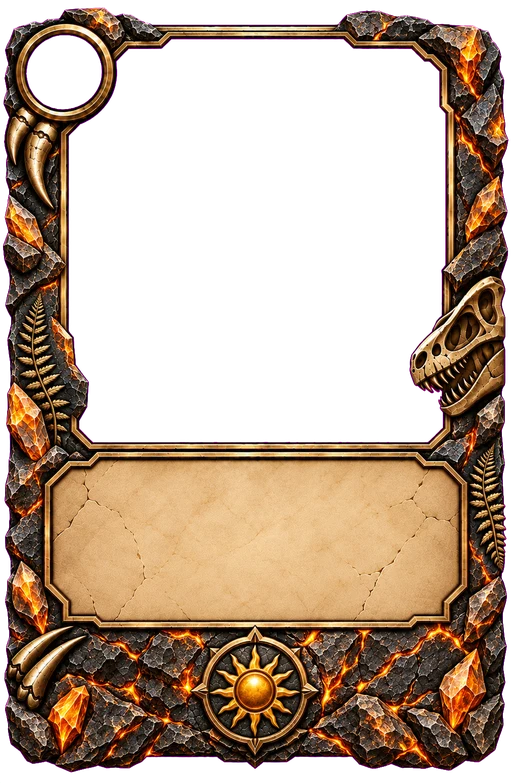
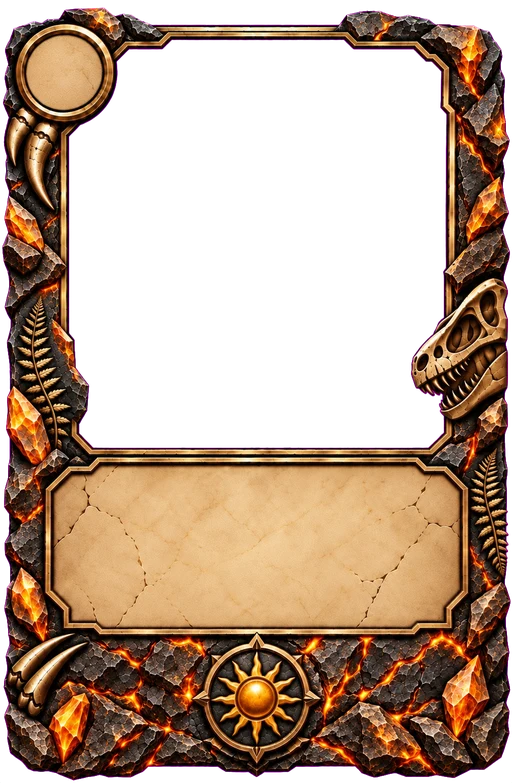
Marco de soporte: los tres definitivos, con el aro del coste en PAPEL
Los tres PNG del primer intento eran un borrado anterior: traían el aro del
coste en magenta, o sea hueco. Los buenos lo traen RELLENO de papel, que es
justo al revés que en las criaturas, así que la herramienta sólo mide aquí un
hueco —la ventana— y el aro se midió sobre el papel como la caja.

Con eso, en una carta de soporte las TRES tintas son de papel y ninguna cae
sobre hueco: el coste pasa a tinta oscura. Se miró a 83 px antes de aceptarlo,
que es donde a las criaturas les falló el papel dentro del aro, y aquí se lee
mejor que el hueco: el disco es grande, la cifra es una sola y no comparte
filo con la caja.

La ventana se pone por el hueco más ANCHO de los tres y no por la media: el
marco se pinta encima del arte, así que una ventana de más queda tapada y una
de menos deja un filo oscuro dentro del hueco. Los tres se separan hasta punto
y medio por la derecha y con la media el clima enseñaba ese filo.

Claude-Session: https://claude.ai/code/session_01Q85Z2YG2ZkA5G7j4CyGifz

diff --git a/carta.css b/carta.css
@@ -178,17 +178,19 @@
    familia como en las criaturas. La caja no es magenta y se midió sobre el
    papel, con el mismo margen que se le dejó a la de las criaturas. */
 .carta.con-marco.no-dino {
-  --ven-x0: 13%;    --ven-x1: 12.5%;  --ven-y0: 5%;     --ven-alto: 51.5%;
-  --pla-x0: 13%;    --pla-x1: 13%;    --pla-y0: 58%;    --pla-y1: 19.2%;
-  --cos-cx: 12.5%;  --cos-cy: 9.24%;
+  --ven-x0: 13.3%;  --ven-x1: 11.9%;  --ven-y0: 4.7%;   --ven-alto: 52.8%;
+  --pla-x0: 13%;    --pla-x1: 13%;    --pla-y0: 58.4%;  --pla-y1: 18.8%;
+  --cos-cx: 12.51%; --cos-cy: 9.14%;
 }
 /* El aro del coste viene dibujado, así que la chapa de Biomasa se apaga: es el
-   mismo caso que las tres chapas de las criaturas. La cifra cae sobre hueco
-   —el fondo oscuro de la carta— y se queda en claro. */
+   mismo caso que las tres chapas de las criaturas. */
 .carta.con-marco.no-dino .c-chapa { display: none; }
-/* Sobre papel: el nombre y el texto. */
+/* Y aquí TODO cae sobre papel —el aro del coste también— así que las tres
+   tintas van oscuras. Es lo contrario que en las criaturas, donde las cifras
+   caen sobre hueco: ahí el aro está vacío y aquí está relleno. */
 .carta.con-marco.no-dino .c-nombre { color: #38200c; }
 .carta.con-marco.no-dino .c-texto { color: #2e2113; }
+.carta.con-marco.no-dino .c-coste { color: #2b1706; }
 /* La caja se queda con el relleno de siempre —`3% 5% 0`— y NO con el que se
    apretó para las criaturas: aquí lleva el NOMBRE con hasta tres líneas, no un
    título de dos, y el punto y medio de relleno de abajo le comía media línea a

diff --git a/test/entera.test.js b/test/entera.test.js
@@ -90,9 +90,11 @@ test('las tres familias de soporte llevan su marco, con el aro del coste dentro'
   // Y viene dibujado: la chapa de Biomasa que lo suplía se apaga, igual que las
   // tres de las criaturas.
   assert.match(css, /\.carta\.con-marco\.no-dino \.c-chapa\s*\{\s*display:\s*none/);
-  // La caja es PAPEL pintado en el PNG: ahí la tinta va oscura.
+  // Aquí TODO es papel pintado en el PNG —el aro del coste también, al revés
+  // que en las criaturas— así que las tres tintas van oscuras.
   assert.match(css, /\.carta\.con-marco\.no-dino \.c-nombre\s*\{\s*color:\s*#38200c/);
   assert.match(css, /\.carta\.con-marco\.no-dino \.c-texto\s*\{\s*color:\s*#2e2113/);
+  assert.match(css, /\.carta\.con-marco\.no-dino \.c-coste\s*\{\s*color:\s*#2b1706/);
   // La ventana sube hasta el borde: sin banda de nombre, arranca mucho más
   // arriba que la de una criatura y es más alta.
   const bloque = css.match(/\.carta\.con-marco\.no-dino\s*\{([^}]*)\}/)[1];

diff --git a/CLAUDE.md b/CLAUDE.md
@@ -1516,8 +1516,17 @@ Queda uno en este estilo: el del JEFE. Las tres familias de soporte llegaron el
 ### El marco del soporte: clima, evento y recurso, con emblema en vez de rareza
 
 Un día después de las criaturas llegaron los tres de soporte, con el mismo
-lenguaje —aro del coste dibujado y hueco, caja de PAPEL pintada en el PNG— y
-dos cosas propias:
+lenguaje —aro del coste dibujado y caja de PAPEL pintada en el PNG— y tres
+cosas propias:
+
+- **El aro del coste va RELLENO de papel, no hueco**, que es justo al revés
+  que en las criaturas. Así que ahí la tinta va oscura también: en una carta
+  de soporte **las tres tintas son de papel** y no hay ninguna sobre hueco.
+  Se miró a 83 px antes de aceptarlo —que es donde a las criaturas les falló
+  el papel dentro del aro, y por eso allí se dejó vacío— y aquí se lee mejor
+  que el hueco: el disco es grande, la cifra es una sola y no comparte filo
+  con la caja. La chapa de Biomasa que antes hacía de campo oscuro se apaga
+  igual: el aro ya está dibujado.
 
 - **No llevan banda de nombre**, porque el nombre de una carta de soporte y el
   de su habilidad son la misma cosa y van en la caja. Por eso la **ventana sube
@@ -1533,19 +1542,23 @@ dos cosas propias:
 
 Y tres cosas de la medida, que es donde estuvo el trabajo:
 
-- **Los tres caen dentro de medio punto en TODO**, aro del coste incluido
-  (cx 12,50 los tres; cy entre 9,11 y 9,38). Así que aquí no hace falta una
-  línea por familia como en las criaturas: la geometría va una sola vez, en
-  `.carta.con-marco.no-dino`, que es la clase que `claseFamilia()` ya emitía.
-- **La caja no es magenta y se midió sobre el papel**, como en las criaturas:
-  58,99 % a 79,11 %, o sea **20,1 puntos de papel, más alto que los 19,15 de
-  una criatura** y más arriba.
-- **Y la caja del CSS se puso en 22,8 puntos y no en los 21,8 que salían de
-  copiar los márgenes de la criatura.** Con 21,8 el nombre de dos líneas de
-  TODA carta de soporte perdía medio píxel por abajo en la mano y en el
-  tablero —48 cartas, medido comparando contra `main`— porque ahí la línea son
-  10 px y dos no entraban. Con 22,8 vuelven a entrar y el número es el mismo
-  que tenía el marco viejo. Las cuatro que ya se cortaban antes
+- **La herramienta sólo mide UN hueco aquí**, la ventana, porque el aro es
+  papel: el aro y la caja se midieron sobre el papel, con el mismo recorte por
+  color que en las criaturas. Los tres coinciden dentro de un tercio de punto
+  en el aro (cx 12,38–12,67, cy 8,96–9,28), así que va una sola línea en
+  `.carta.con-marco.no-dino` —la clase que `claseFamilia()` ya emitía— y no
+  una por familia como en las criaturas.
+- **La ventana del CSS se pone por el hueco MÁS ANCHO de los tres**, no por la
+  media: el marco se pinta ENCIMA del arte, así que una ventana de más queda
+  tapada y una de menos deja un filo oscuro dentro del hueco. Los tres se
+  separan hasta punto y medio por la derecha (86,3 % el clima, 87,9 % el
+  recurso) y con la media el clima enseñaba ese filo.
+- **La caja se puso en 22,8 puntos de alto y no en los 20,4 que mide el
+  papel.** Con lo que salía de copiar los márgenes de la criatura, el nombre
+  de dos líneas de TODA carta de soporte perdía medio píxel por abajo en la
+  mano y en el tablero —48 cartas, medido comparando contra `main`— porque
+  ahí la línea son 10 px y dos no entraban. Con 22,8 vuelven a entrar y es el
+  mismo alto que tenía el marco viejo. Las cuatro que ya se cortaban antes
   —«Canal trenzado», «Bosque ribereño», «Rebrote tras incendio» y «Humedal»—
   se siguen cortando igual: es que su nombre pide tres líneas y en la
   colección sólo caben dos. No es de este marco y no se tocó.
